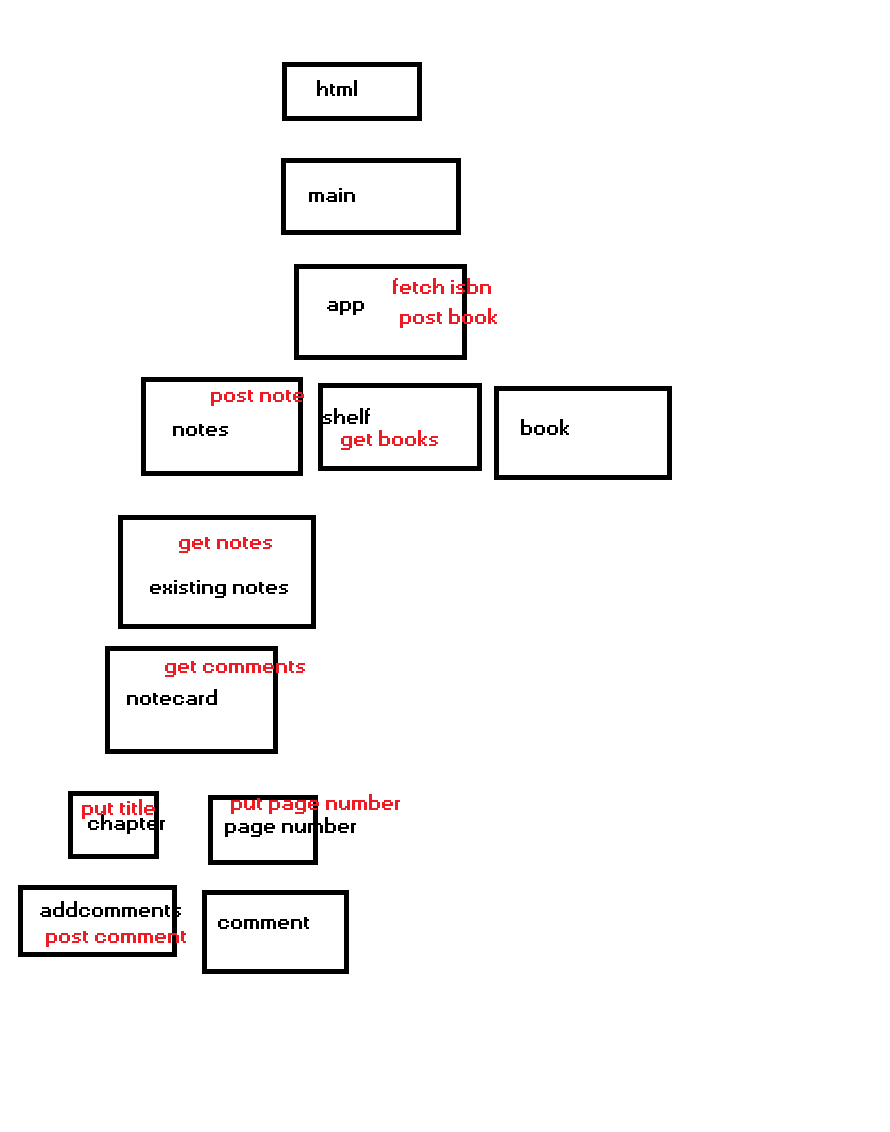
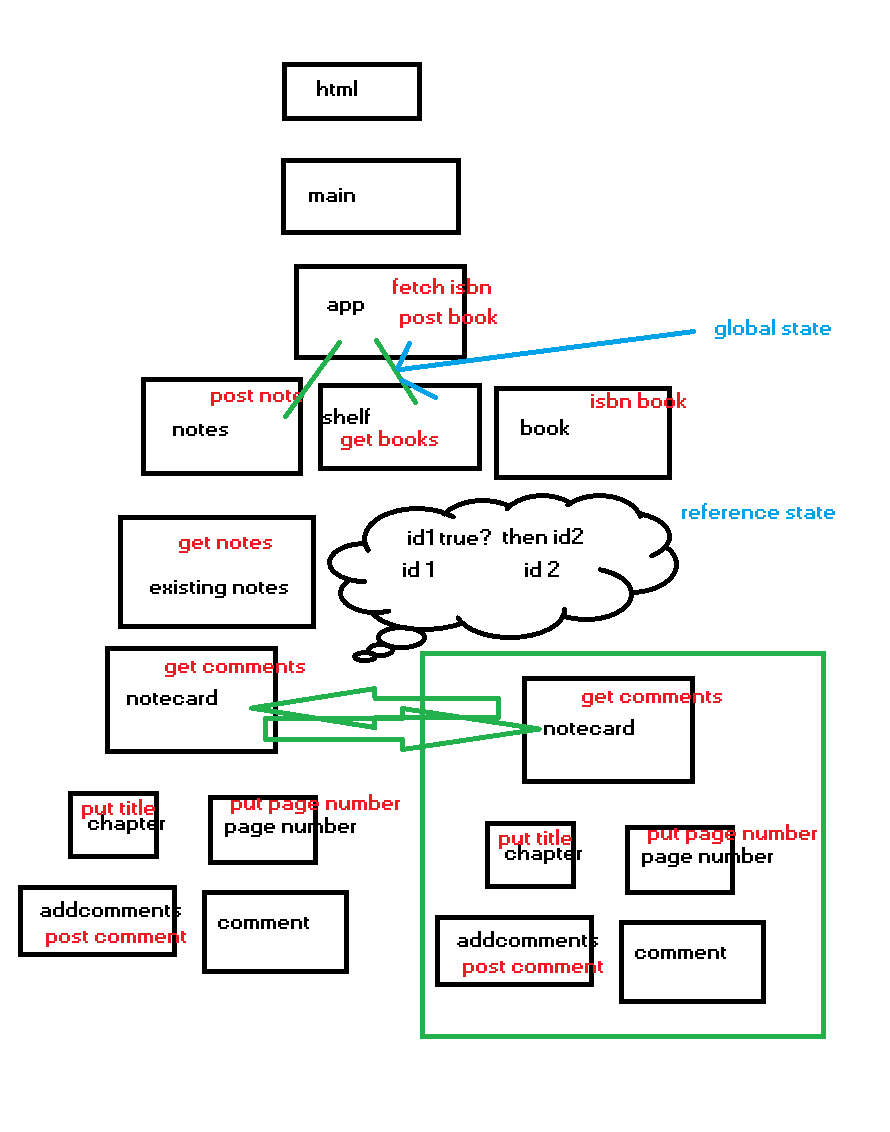
ref

diff --git a/src/NoteCard.jsx b/src/NoteCard.jsx
@@ -19,6 +19,7 @@ import Comment from './Comment.jsx'
 import PageNumber from './PageNumber.jsx'
 import ChapterTitle from './ChapterTitle.jsx'
 import axios from 'axios'
+import { useReferencesStore } from './References.js'
 
 function NoteCard({ note, index, notes, isbn, addedNote}) {
 
@@ -33,10 +34,34 @@ const [pageNumber, setPageNumber] = useState('')
 const [commentIndex, setCommentIndex] = useState('')
 const [commentUpdated, setCommentUpdated] = useState(false)
 const [collapseComment, setCollapseComment] = useState(false)
+const [selectIndex, setSelectIndex] = useState('')
+const [reference, setReference] = useState([])
+
+const { addFirstReference, addSecondReference } = useReferencesStore()
+console.log(reference)
+//const flag = useReferencesStore((state) => console.log(state.idOneTrue))
+useEffect(() => {
+    const ifRef = () => {
+        if(reference.length === 1 && flag == false) {
+            addFirstReference(reference)
+            console.log(reference)
+        }
+        else if (reference.length === 1 && flag == true) {
+            addSecondReference(reference)
+        }
+        else if (reference.length === 0) {
+            console.log('nothing')
+        }
+  };
+  ifRef();},[reference])
 
 
 
-console.log(comments, commentIndex)
+
+//console.log(selectIndex)
+//console.log(notes)
+//console.log(reference)
+
 let chapterTitles = []
 for (let i = 0; i < notes.length; i++) {
     chapterTitles.push(notes[i].chapter_title)
@@ -85,7 +110,7 @@ useEffect(() => {
                     {note}
                         <div>
                         <p
-                        style={{fontSize: 12, fontStyle: 'Normal'}}>{pageNumbers[index] ? <p>{pageNumbers[index]}</p> : <p>{pageNumber}</p>}</p>
+                        style={{fontSize: 12, fontStyle: 'Normal', marginBottom: -25}}>{pageNumbers[index] ? <p>{pageNumbers[index]}</p> : <p>{pageNumber}</p>}</p>
                         {showPageNumberInput ? <PageNumber pageNumber={pageNumber} setPageNumber={setPageNumber}
                         showPageNumberInput={showPageNumberInput}
                         setShowPageNumberInput={setShowPageNumberInput}
@@ -111,7 +136,7 @@ useEffect(() => {
                     {collapseComment ? <Comment comments={comments} />: <></> }
                     <Stack 
                         direction="row"
-                        style={{marginTop: 0, marginBottom: 0, justifyContent: 'center'}}
+                        style={{marginTop: 10, marginBottom: 0, justifyContent: 'center'}}
                     >
                         <Tooltip title="Add chapter title" arrow>
                             <AutoStoriesIcon 
@@ -147,7 +172,18 @@ useEffect(() => {
                         onClick={()=>setCollapseComment(!collapseComment)}
                     />
                 </Tooltip>}
-
+                <Tooltip title="Link note" arrow>
+<LinkIcon
+    id="Link note"
+    style={{backgroundColor: 'white', color: 'gray', margin: '3px'}}
+   onClick={() => setReference({
+    note_id: notes[index].note_id,
+    book_id: notes[index].book_id,
+    chapter_title: notes[index].chapter_title,
+    page_number: notes[index].page_number,
+   })}
+/>
+</Tooltip>
 
                     </Stack>
                 </Stack>

diff --git a/src/References.js b/src/References.js
@@ -1,0 +1,43 @@
+import {create} from 'zustand'
+
+export const useReferencesStore = create((set) => ({
+    idOneTrue: false,
+    referenceOne: [
+        {
+            noteId_one: '',
+        book_one: '',
+        chapter_one: '',
+        page_one: '',
+        }
+    ],
+    referenceTwo: [
+        {
+            noteId_two: '',
+        book_two: '',
+        chapter_two: '',
+        page_two: '',
+    }
+],
+    comment: '',
+    addFirstReference: (newReference) => {
+        set((state) => {
+            referenceOne: newReference
+        })
+    },
+    addSecondReference: (newReference) => {
+        set((state) => {
+            referenceTwo: newReference
+        })
+    },
+    setComment: (comment) => {
+        set((state) => {
+            comment: comment
+        })
+    },
+    setFlag: (flag) => {
+        set((state) => {
+            idOneTrue: !idOneTrue;
+        })
+    }
+}
+))

diff --git a/src/Book.jsx b/src/Book.jsx
@@ -31,7 +31,7 @@ function Book( {bookData, displayTable, shelfBook} ) {
     >
       <Tooltip title="Back to collection" arrow>
       <KeyboardReturnIcon 
-        style={{backgroundColor: 'white', color: 'gray', margin: '3px'}}
+        style={{backgroundColor: 'white', color: 'gray', margin: '3px', marginTop: 10}}
         onClick={displayTable}
       />
     </Tooltip>
